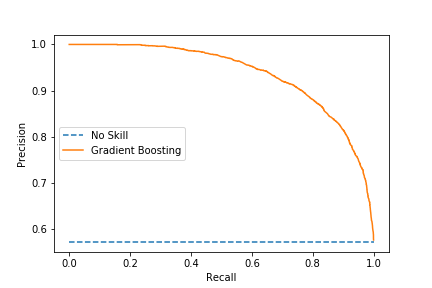
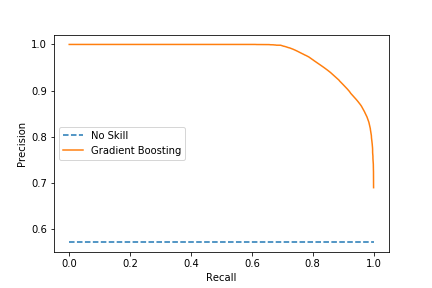
added confusion matrix info to readme

diff --git a/src/EDA_plots.py b/src/EDA_plots.py
@@ -9,3 +9,8 @@ def plot_feature_importance(ax, features, importances):
     ax.set_xlabel('features', fontsize=34, labelpad=15)
     for tick in ax.xaxis.get_major_ticks()[1::2]:
         tick.set_pad(25)
+        
+def plot_scatter_matrix(df):
+    pd.plotting.scatter_matrix(df, alpha=0.2, figsize=(34,34))
+    plt.show()
+    

diff --git a/src/patenttrialpredicter.py b/src/patenttrialpredicter.py
@@ -49,7 +49,6 @@ class PatentTrialPredicter:
         # show the legend
         ax.legend()
         
-        
 if __name__ == "__main__":
     train = pd.read_csv("sampleData/train_pd.csv",sep="|")
     test = pd.read_csv("sampleData/train_pd.csv",sep="|")

diff --git a/README.md b/README.md
@@ -35,7 +35,7 @@ Baseline random forest : recall 67%
 
 # oh no!
 it seems the starting features can hardly produce results better than guessing the average. To improve upon this 
-categories created by WIPO (world intellectual property organization) are added as categorical features. In addition 
+categories created by WIPO (world intellectual property organization) are added as categorical features. In addition TFIDF is performed on the abstract to created 2 and 3 word N grams as features.
 ## Models created by added in wipo data and 
 
 ![alt text](img/pres_recall_RF_gridsearch_w_features.png)
@@ -73,7 +73,11 @@ Given these considerations it is best to remove those two features and rerun the
 ## XG Boost
 ![alt text](img/feature_importance_XGB_wo_claims_withdrawn.png)
 
-
+The confusion matrix of the best perofrming model (Gradient boosted with tfidf features, removing number of claims and withdraws) results in the following
+True Negative : 5901
+False Positive : 1056
+False Negative : 655
+True Positive : 8608
 
 ## Conclusions
 The most relevant features in the final version were consistently field_id_10, which is the WIPO category for measurement instruments and kind_b1 which is a category for patents that do not have a previously published pre-grant publication. This leaves us with the interesting conclusion that patents that are for measuring devices but that have not been previously published before being patented are the strongest indicators of whether or not a patent is likely to be called before PTAB for a trial. 
